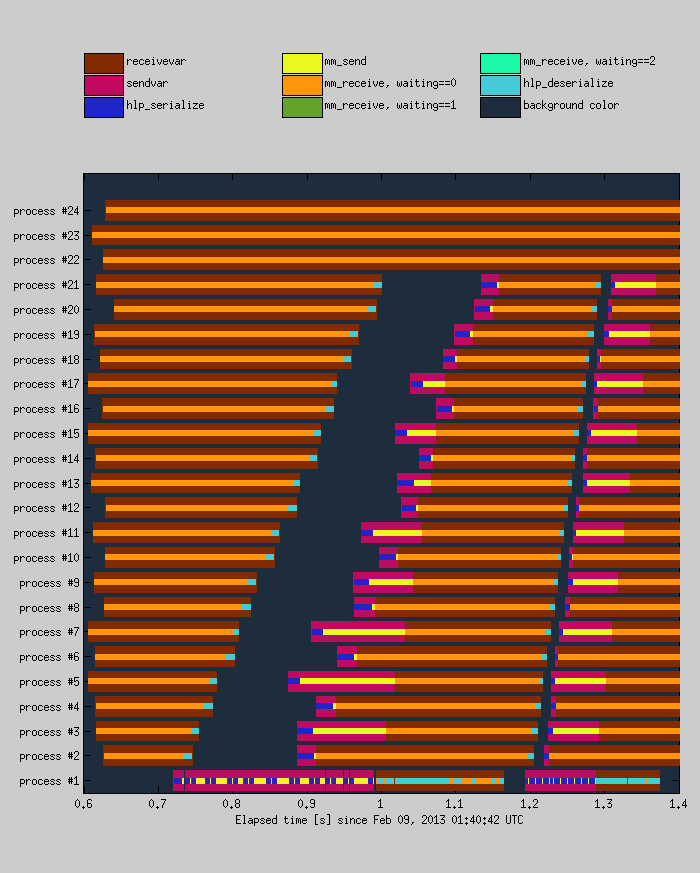
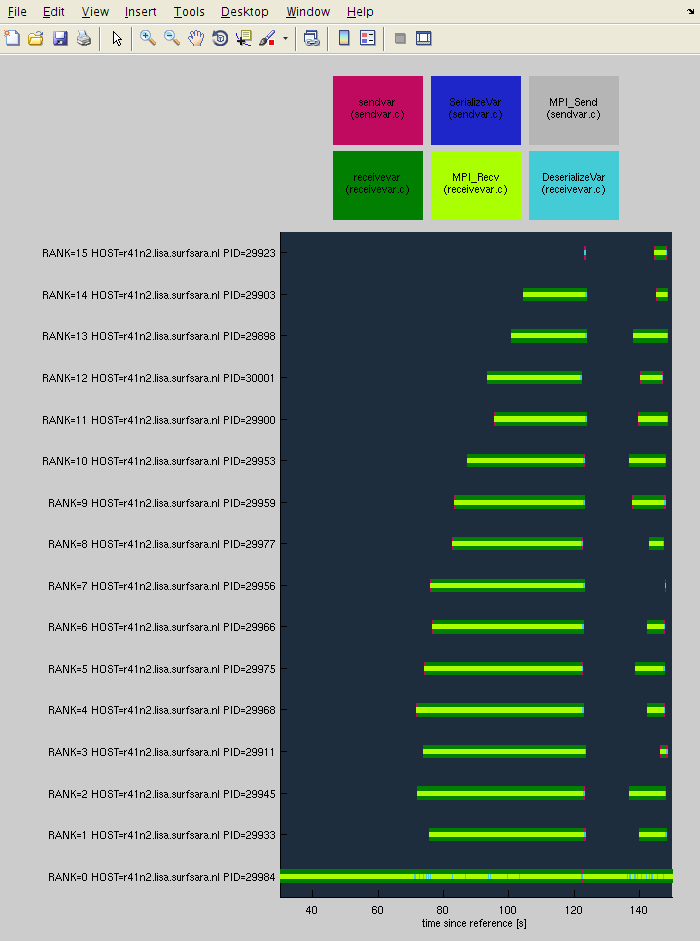
updated the function mmsodaAnalyzeTimings, as well as its HTML documentation and the PNG figure that is part of the documentation

diff --git a/src/mmsoda-toolbox/html/mmsodaAnalyzeTimings.html b/src/mmsoda-toolbox/html/mmsodaAnalyzeTimings.html
@@ -91,7 +91,7 @@ Description
 </p>
 
 <p>
-The figure below gives an impression of what the <span style="font-family:monospace">mmsodaAnalyzeTimings()</span> result looks like. The figure shows results for a very fine-grained problem, executed on two 12-core nodes. Note that <span style="font-family:monospace">nOffspring</span> was 20, hence 3 cores remain unused).</p>
+The figure below gives an impression of what the <span style="font-family:monospace">mmsodaAnalyzeTimings()</span> result looks like. The figure shows results for a relatively fine-grained problem, executed on one 16-core node.</p>
 <p>
 <img src="images/mmsodaAnalyzeTimings.png" width="700px">
 </p>
@@ -124,6 +124,7 @@ The behavior may be tweaked using various options (see <a href="#_mmsodaAnalyzeT
     <td valign="top"><span style="font-family:monospace"><span class="string">'bottomLayerHeight'</span></span></td>
     <td valign="top">Controls the vertical size of the least detailed patch objects. Default is <span style="font-family:monospace">0.8</span>.</td>
 </tr>
+<!--
 <tr>
     <td valign="top"><span style="font-family:monospace"><span class="string">'colorTable'</span></span></td>
     <td valign="top">Defines the default colors with which the different activities are visualized. Default is:
@@ -139,9 +140,15 @@ The behavior may be tweaked using various options (see <a href="#_mmsodaAnalyzeT
 </pre>
     </td>
 </tr>
+-->
 <tr>
     <td valign="top"><span style="font-family:monospace"><span class="string">'endAt'</span></span></td>
-    <td valign="top">Defines the end time in seconds for which the timings will be retrieved from the timing_*.mat files. Default is <span style="font-family:monospace">10.0</span>.</td>
+    <td valign="top">Defines the end time in seconds for which the timings will be shown. Default is to include all data.</td>
+</tr>
+
+<tr>
+    <td valign="top"><span style="font-family:monospace"><span class="string">'leftMargin'</span></span></td>
+    <td valign="top">Defines the margin on the left-hand side of the plot as a fraction of the whole figure width. Default is <span style="font-family:monospace">0.17</span>.</td>
 </tr>
 
 <tr>
@@ -157,16 +164,17 @@ The behavior may be tweaked using various options (see <a href="#_mmsodaAnalyzeT
     <td valign="top">Show the process ID as text. Default is <span style="font-family:monospace">true</span>.</td>
 </tr>
 <tr>
+    <td valign="top"><span style="font-family:monospace"><span class="string">'showRank'</span></span></td>
+    <td valign="top">Show the MPI rank as text. Default is <span style="font-family:monospace">true</span>.</td>
+</tr>
+
+<tr>
     <td valign="top"><span style="font-family:monospace"><span class="string">'startFrom'</span></span></td>
-    <td valign="top">Defines the start time in seconds for which the timings will be retrieved from the timing_*.mat files. Default is <span style="font-family:monospace">0.0</span>.</td>
+    <td valign="top">Defines the start time in seconds for which the timings will be shown. Default is to show all data.</td>
 </tr>
 <tr>
     <td valign="top"><span style="font-family:monospace"><span class="string">'topLayerHeight'</span></span></td>
     <td valign="top">Controls the vertical size of the most detailed patch objects. Default is <span style="font-family:monospace">0.2</span>.</td>
-</tr>
-<tr>
-    <td valign="top"><span style="font-family:monospace"><span class="string">'vertSep'</span></span></td>
-    <td valign="top">Controls the vertical separation between bands pertaining to individual processes. Default is <span style="font-family:monospace">0.2</span>.</td>
 </tr>
 
 </table>

diff --git a/src/mmsoda-toolbox/visualization/mmsodaAnalyzeTimings.m b/src/mmsoda-toolbox/visualization/mmsodaAnalyzeTimings.m
@@ -1,25 +1,31 @@
 function mmsodaAnalyzeTimings(varargin)
+% <a href="matlab:web(fullfile(mmsodaroot,'html','mmsodaAnalyzeTimings.html'),'-helpbrowser')">View HTML documentation for this function in the help browser</a>
 
 
 
 showLegend = true;
-bottomLayerHeight = 0.8;
+bottomLayerHeight = 0.6;
 topLayerHeight = 0.2;
-vertSep = 0.2;
 bgColor = [0.12,0.18,0.24];
 showHost = true;
 showPID = true;
 showRank = true;
 
+startFrom = false;
+endAt = false;
 
-authorizedOptions = {'showLegend',...
+leftMargin = 0.17;
+
+authorizedOptions = {'bgColor',...
     'bottomLayerHeight',...
-    'topLayerHeight',...
-    'vertSep',...
-    'bgColor',...
+    'endAt',...
+    'leftMargin',...
     'showHost',...
+    'showLegend',...
     'showPID',...
-    'showRank'};
+    'showRank',...
+    'startFrom',...
+    'topLayerHeight'};
 
 
 mmsodaParsePairs()
@@ -33,26 +39,27 @@ cyan = [ 0.27, 0.80, 0.84];
 textColor = [1,1,1];
 textColorBackground = [0,0,0];
 
-events = { 1, 2,'receivevar in receivevar.c',    0.4,{'FaceColor',olive,'EdgeColor',olive};... 
-           3, 4,'sendvar in sendvar.c',          0.4,{'FaceColor',magenta,'EdgeColor',magenta};...
-          31,32,'SerializeVar in sendvar.c',     0.1,{'FaceColor',blue,'EdgeColor',blue};...
-          33,34,'MPI_Send in sendvar.c',         0.1,{'FaceColor',lightgray,'EdgeColor',lightgray};...
-          35,36,'MPI_Recv in receivevar.c',      0.1,{'FaceColor',lime,'EdgeColor',lime};...
-          37,38,'DeserializeVar in receivevar.c',0.1,{'FaceColor',cyan,'EdgeColor',cyan}};  
+
+events = { 1, 2,'receivevar\n(receivevar.c)',    bottomLayerHeight/2,{'FaceColor',olive,'EdgeColor',olive};... 
+           3, 4,'sendvar\n(sendvar.c)',          bottomLayerHeight/2,{'FaceColor',magenta,'EdgeColor',magenta};...
+          31,32,'SerializeVar\n(sendvar.c)',     topLayerHeight/2,{'FaceColor',blue,'EdgeColor',blue};...
+          33,34,'MPI_Send\n(sendvar.c)',         topLayerHeight/2,{'FaceColor',lightgray,'EdgeColor',lightgray};...
+          35,36,'MPI_Recv\n(receivevar.c)',      topLayerHeight/2,{'FaceColor',lime,'EdgeColor',lime};...
+          37,38,'DeserializeVar\n(receivevar.c)',topLayerHeight/2,{'FaceColor',cyan,'EdgeColor',cyan}};  
 
 
 timingsDirectory = 'results';
 
 if showLegend
     
-    h2 = axes('Position',[0.02,0.81,0.96,0.17],'Color','none');
+    h2 = axes('Position',[leftMargin,0.81,0.96-leftMargin,0.17],'Color','none');
     axis off
     
-    h1 = axes('Position',[0.02,0.05,0.96,0.75],'Color',bgColor);
+    h1 = axes('Position',[leftMargin,0.05,0.96-leftMargin,0.75],'Color',bgColor);
     
 else
     
-    h1 = axes('Position',[0.02,0.05,0.96,0.93],'Color',bgColor);
+    h1 = axes('Position',[leftMargin,0.05,0.96-leftMargin,0.93],'Color',bgColor);
     
 end
 
@@ -67,6 +74,8 @@ mpiRankMax = -Inf;
 mpiRankMin = +Inf;
 
 IdontSeeTheTimingFiles = true;
+
+yTickLabels = {};
 
 for iItem = 1:nItems
     
@@ -117,23 +126,19 @@ for iItem = 1:nItems
         if showPID
             str = [str,' PID=',timing.pid];
         end
-        if any(eventOccurred)
-            text(0,timing.mpirank,str,...
-                'color',textColor,...
-                'BackgroundColor',textColorBackground,...
-                'horizontalalign','left',...
-                'verticalalign','middle',...
-                'Margin',1,...
-                'Interpreter','none')
-        else
-            text(0,timing.mpirank,[str,' no events'],...
-                'color',textColor,...
-                'BackgroundColor',textColorBackground,...
-                'horizontalalign','left',...
-                'verticalalign','middle',...
-                'Margin',1,...
-                'Interpreter','none')
+        if ~any(eventOccurred)
+            str = [str,' no events']
         end
+        yTickLabels{end+1} = str;
+
+%         text(0,timing.mpirank,str,...
+%             'color',textColor,...
+%             'BackgroundColor',textColorBackground,...
+%             'horizontalalign','left',...
+%             'verticalalign','middle',...
+%             'Margin',1,...
+%             'Interpreter','none')
+
 
         
     end
@@ -145,8 +150,17 @@ if IdontSeeTheTimingFiles
 end
 
 
-set(gca,'ylim',[mpiRankMin-0.5,mpiRankMax+0.5],...
-    'ytick',[])
+xlims = get(gca,'xlim');
+if startFrom
+    xlims(1) = startFrom;
+end
+if endAt
+    xlims(2) = endAt;
+end
+set(gca,'xlim',xlims,...
+        'ylim',[mpiRankMin-0.5,mpiRankMax+0.5],...
+        'ytick',[mpiRankMin:1:mpiRankMax],...
+        'yticklabel',yTickLabels)
 
 for iEvent=1:nEvents
     if ~eventOccurred(iEvent)
@@ -207,7 +221,7 @@ for iEvent = 1:nEvents
 
     if eventOccurred(iEvent)
         drawRectangle(iCol-0.45,iCol+0.45,iRow-0.45,iRow+0.45,events(iEvent,5))
-        text(iCol,iRow,events{iEvent,3},'Interpreter','none',...
+        text(iCol,iRow,sprintf(events{iEvent,3}),'Interpreter','none',...
                                          'horizontalalignment','center',...
                                          'verticalalignment','middle')
     end
